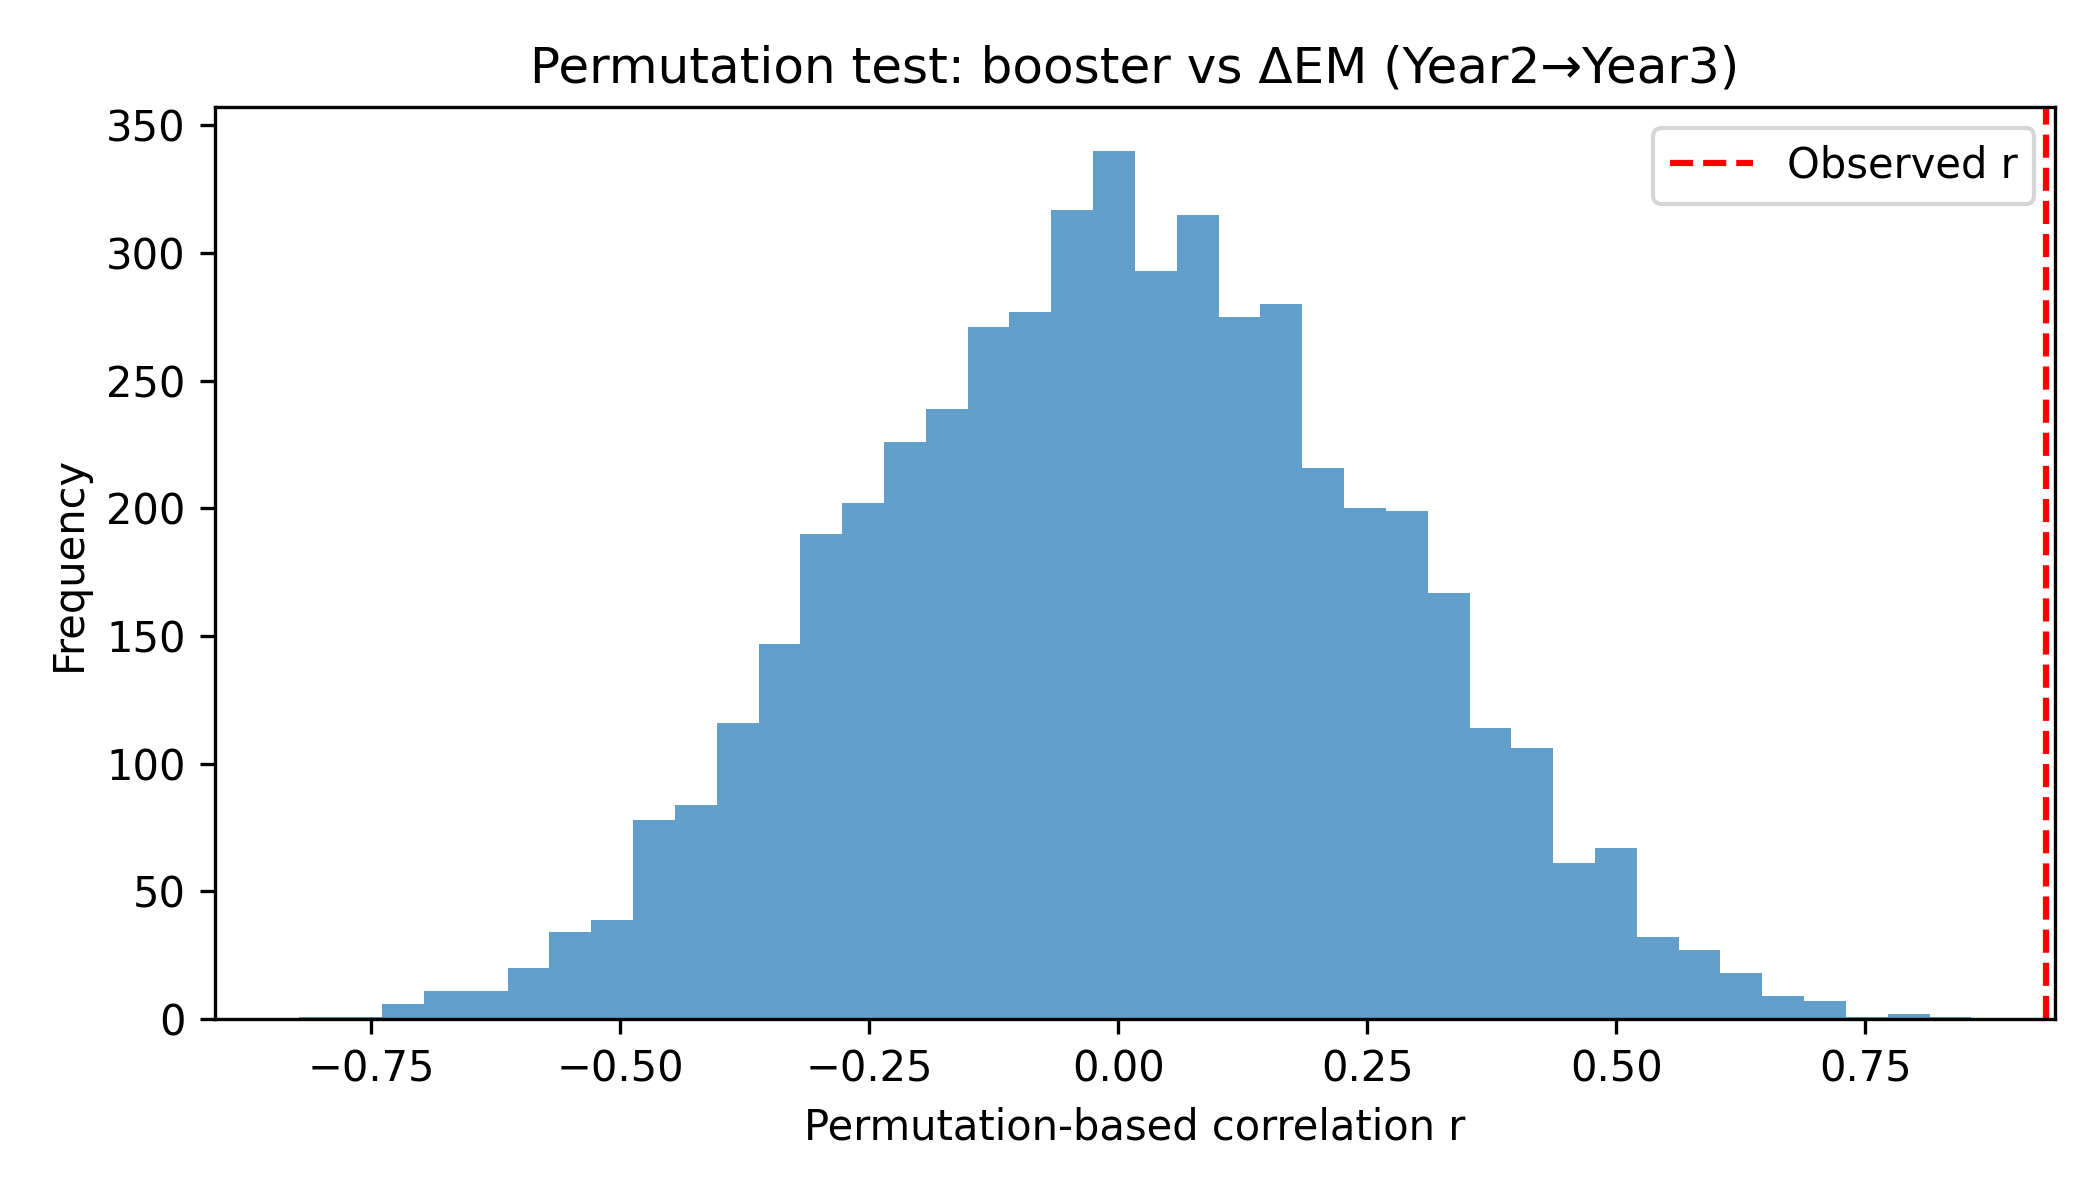
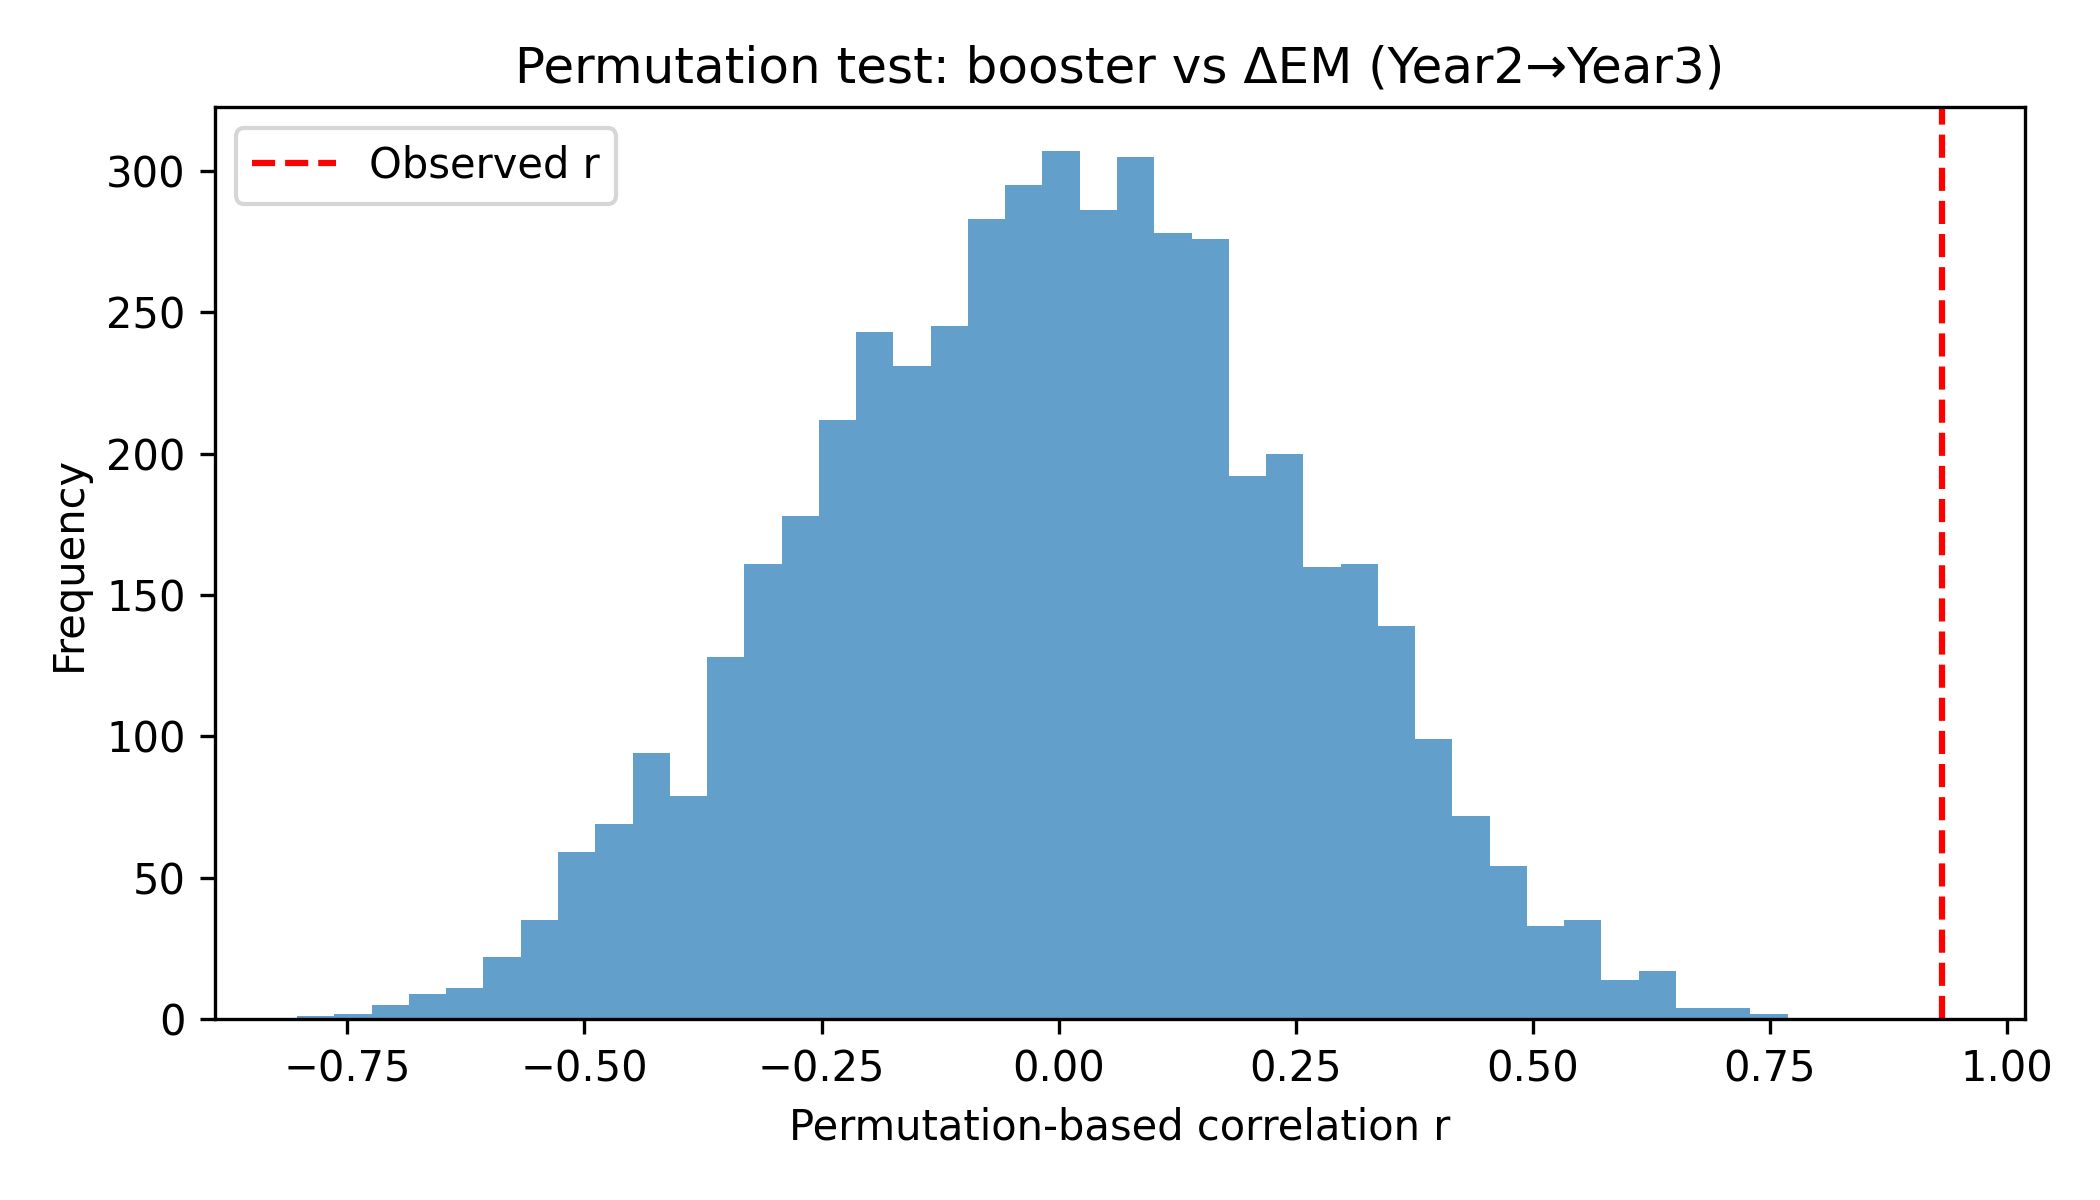
update xr3

diff --git a/notebooks/full_results/tables.md b/notebooks/full_results/tables.md
@@ -1,0 +1,32 @@
+# Key tables
+
+## High vs low booster states – excess mortality by year
+
+| group        |   EM_Year1 |   EM_Year2 |   EM_Year3 |
+|:-------------|-----------:|-----------:|-----------:|
+| high_booster |   0.361081 |    1.42955 |    8.67285 |
+| low_booster  |   4.61798  |    4.62912 |    7.17785 |
+
+
+
+## Core booster vs ΔEM correlation
+
+| predictor       | outcome           |     r |    R2 |   CI_low |   CI_high |   N_states |   perm_p |
+|:----------------|:------------------|------:|------:|---------:|----------:|-----------:|---------:|
+| Booster rate Y3 | ΔEM (Year2→Year3) | 0.932 | 0.868 |     0.81 |     0.976 |         16 |   0.0002 |
+
+
+
+## Predictors vs ΔEM (Year2→Year3) with FDR / Bonferroni
+
+| predictor                                   |           r |       p_raw |       p_fdr |      p_bonf | sig_fdr   | sig_bonf   |
+|:--------------------------------------------|------------:|------------:|------------:|------------:|:----------|:-----------|
+| Third_Vaccination_Rate_End_Pandemic_Year_3  |  0.931651   | 1.55763e-07 | 5.60747e-06 | 5.60747e-06 | True      | True       |
+| Second_Vaccination_Rate_End_Pandemic_Year_3 |  0.794929   | 0.000233209 | 0.00209888  | 0.00839551  | True      | True       |
+| Mean_Age_2022                               | -0.487236   | 0.0555892   | 0.166768    | 1           | False     | False      |
+| Care_Needs_Percent_31.12.2021               | -0.393007   | 0.132099    | 0.358464    | 1           | False     | False      |
+| Risk_of_poverty_rate_2022                   |  0.386318   | 0.139403    | 0.358464    | 1           | False     | False      |
+| GDP_per_capita_2022                         |  0.327716   | 0.215308    | 0.47615     | 1           | False     | False      |
+| COVID_infections_Pandemic_Year3             |  0.247523   | 0.355344    | 0.639619    | 1           | False     | False      |
+| COVID_deaths_Pandemic_Year3                 |  0.150584   | 0.577757    | 0.831969    | 1           | False     | False      |
+| Measures_Overall_Pandemic_Year3             | -0.00636975 | 0.981321    | 0.981321    | 1           | False     | False      |
